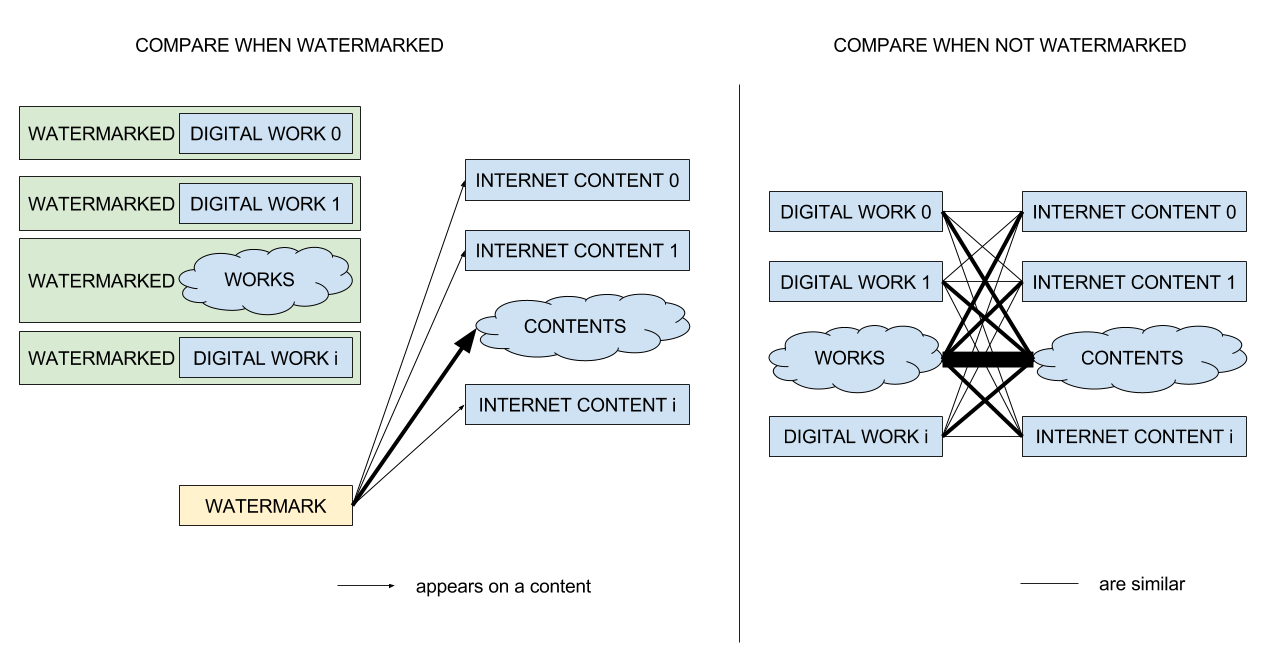
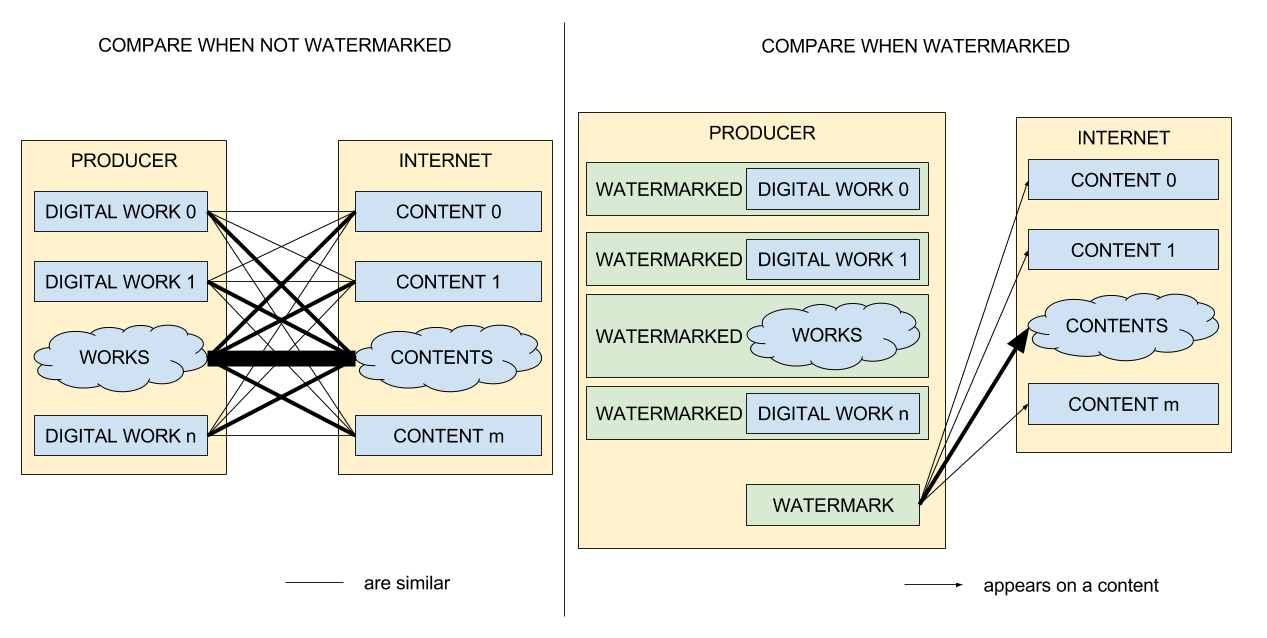
description and image change for: motivation: content tracking

diff --git a/README.md b/README.md
@@ -36,8 +36,8 @@ give a good recommendation and so they could earn money. However the company is
 afraid that if they share the movie with some critic then they could share the
 movie onwards. To prevent critic from sharing, the company can watermark the
 movie, so they will know who made a leak in case of any.<br/>
-The below picture present the exact solution to above problem. Producer who owns
-a digital work, watermarks every copy of the digital work with different
+The below picture presents the exact solution to above problem. Producer who
+owns a digital work, watermarks every copy of the digital work with different
 watermark and sends the watermarked content to film critics. Whenever a film
 critic makes a leak, we can identify him by checking if the leaked work contains
 a watermarked associated with him.
@@ -51,8 +51,17 @@ malicious person uploads their works to YouTube. They are very sad about that.
 Verifying that a single work found in the Internet belongs to them is costly, so
 before any release
 they watermark all their works with single watermark and they just check, if the
-work from the Internet containes their watermark.
+work from the Internet containes their watermark.<br/>
+On the below picture, we can find that that the producer has n movies and there
+are m movies in the Intenet that could potentialy belong to the producer. The
+brute force algorithm would have to compare every producer movie with every
+movie from the Internet. That would give us nm comparisons. However, when we
+watermark picure before then all we have to do is to check if producers's
+watermark apears on the Internet content. That gives us linear number of checks.
 ![Fast tracking of images](/images/watermark-tracking.png)
+Solution to this problem might be used by photographers who post their works in
+the Internet. It happens frequently that people are reposting their picture on
+their feeds without pointing the source.
 #### End user leak detection
 Film production company made a movie. They want to sell their movie to some
 end users, via cinemas or other film brokers. They are afraid that some end user
